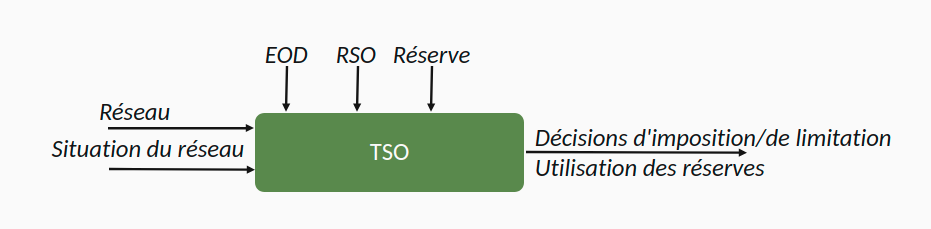
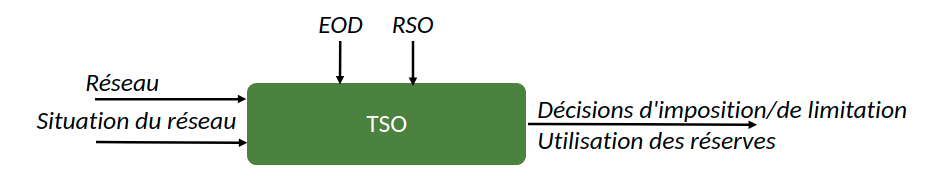
[docs] more precise responsabilities description and added chaining fig
Former-commit-id: 0f87b8c092ba1f6450389dbfeb53f650f659ae3f

Changed region(s): [[0.0302, 0.0622, 0.9978, 0.8705], [0.3931, 0.5907, 0.4536, 0.715]]

diff --git a/docs/src/0_descriptions/3_architecture.md b/docs/src/0_descriptions/3_architecture.md
@@ -48,6 +48,14 @@ La responsabilité du générateur d'incertitudes se résume à la génération 
 Les scénarios générés itérativement à des échéances différentes seront donc indépendants.
 De plus, c'est un autre composant qui doit s'assurer de la cohérence du nombre de scénarios tout au long du lancement.
 
+### Bloc de Génération des séquences (Séquenceur)
+
+![Bloc de génération des séquences](../figs/bloc_sequenceur.png)
+
+Ce bloc reçoit en entrée une description du réseau, la période d'intérêt et les échéances d'études.
+Pour chacune de ces échéances, il propose une suite d'opérations à mener.
+Une opération consiste en l'exécution d'un des blocs décrits dans cette section en respectant ses entrées/sorties.
+
 ### Bloc marché
 
 ![Bloc du marché](../figs/bloc_marche.png)
@@ -72,9 +80,10 @@ Ce bloc simulerait le responsable du réseau :
 
 ![Bloc du TSO](../figs/bloc_dmo.png)
 
-Ce bloc est responsable du respect des DMO et des DPs dans le planning reflété par la situation du réseau.
-Il considère une ou plusieurs situations du réseau en entrée,
- les agrège pour n'en fournir qu'une situation mise à jour qui respecte les contraintes de démarrage des unités de production.
+Ce bloc a pour objectif de consolider la situation du réseau
+ en s'assurant que les DMO et les DP des unités sont bien respectées dans le planning reflété par la situation du réseau.
+
+N.B. : Ce bloc a besoin de deux planning : un planning de référence et un planning à consolider, pour s'assurer que le nouveau planning ne change pas les valeurs des unités une fois la DP/DMO dépassée par exemple.
 
 ### Bloc d'évaluation
 
@@ -106,28 +115,33 @@ Dans le cadre de ce travail, nous considérons que nous disposons d'un certain n
 Cette réserve est délocalisée.
 Une clé de répartition guidée par les coefficients de la PTDF décidera indirectement de cette localisation.
 
+### Les incertitudes
+
+A chaque échéances, nous disposons d'une observation évoluée des incertitudes.
+Les incertitudes du réseau étant les injections nodales (les niveaux de consommation et les capacités de production des unités limitables).
+
 ### Description de la situation du réseau
 
 Le réseau peut etre décrit grace à :
 
 - état des unités à l'échéance : unités démarrées, en démarrage, éteintes
-- planning prévisionnel du TSO pour tous les scénarios et toutes les dates d'intérêt :
+- planning prévisionnel pour tous les scénarios et toutes les dates d'intérêt :
  donnant le niveau de production des unités imposables, les limitations des unités limitables, les niveaux de réserve.
-- planning prévisionnel du marché pour tous les scénarios et toutes les dates d'intérêt :
- donnant le niveau de production des unités imposables, les limitations des unités limitables, les niveaux de réserve
- (potentiellement toujours nulle du point de vue du marché ? mais pas forcément pour généraliser le processus).
+ Ces décisions (planning) peuvent être provisoires (valeurs différentes par scénario) ou définitives.
 - Les incertitudes du réseau vues à l'échéance :
  niveaux de consommation et capacité de production des limitables pour tous les scénarios et toutes les dates d'intérêt
 
 A voir :
-- Il serait potentiellement possible de ne pas avoir besoin des deux plannings TSO et Marché
- mais d'en avoir qu'un à mettre à jour selon l'évolution du processus
- (potentiellement avec le bloc de démarrage des unités ou un autre qui prend cette responsabilité)
 - Le planning ne semble pas suffire pour traiter les DMO/DP,
- il est probablement nécessaire d'avoir l'information sur les démarrages des unités à l'échéance pour pouvoir faire le traitement.
+ il est probablement nécessaire d'avoir l'information sur les arrêts/démarrages des unités à l'échéance pour pouvoir faire le traitement.
+ Le modèle lui-même pourrait devoir traiter les délais dmo/dp:
 
+![remarque dmo](../figs/dmo_dp.png)
 
-<!-- ![Bloc du TSO](../figs/network.png) -->
+Dans la figure ci-dessus, à l'échéance ECH', la nature de la décision pour le pas de temps ts_2 diffère.
+Dans l'exemple 1, L'unité avait été démarrée à ECH pour le pas de temps ts_1, la DP s'applique donc.
+Par contre, dans l'exemple 2, l'unité est restée éteinte, c'est la DMO qui doit être respectée.
+
 
 ## Schéma Général
 
@@ -136,4 +150,4 @@ L'idée derrière cette notion de bloc de responsabilité est de pouvoir enchaî
 
 Ci-dessous un exemple d'enchaînement des blocs :
 
-<!-- ![Bloc du TSO](../figs/bloc_enchainement.png) -->
+![enchainement](../figs/bloc_enchainement.png)
